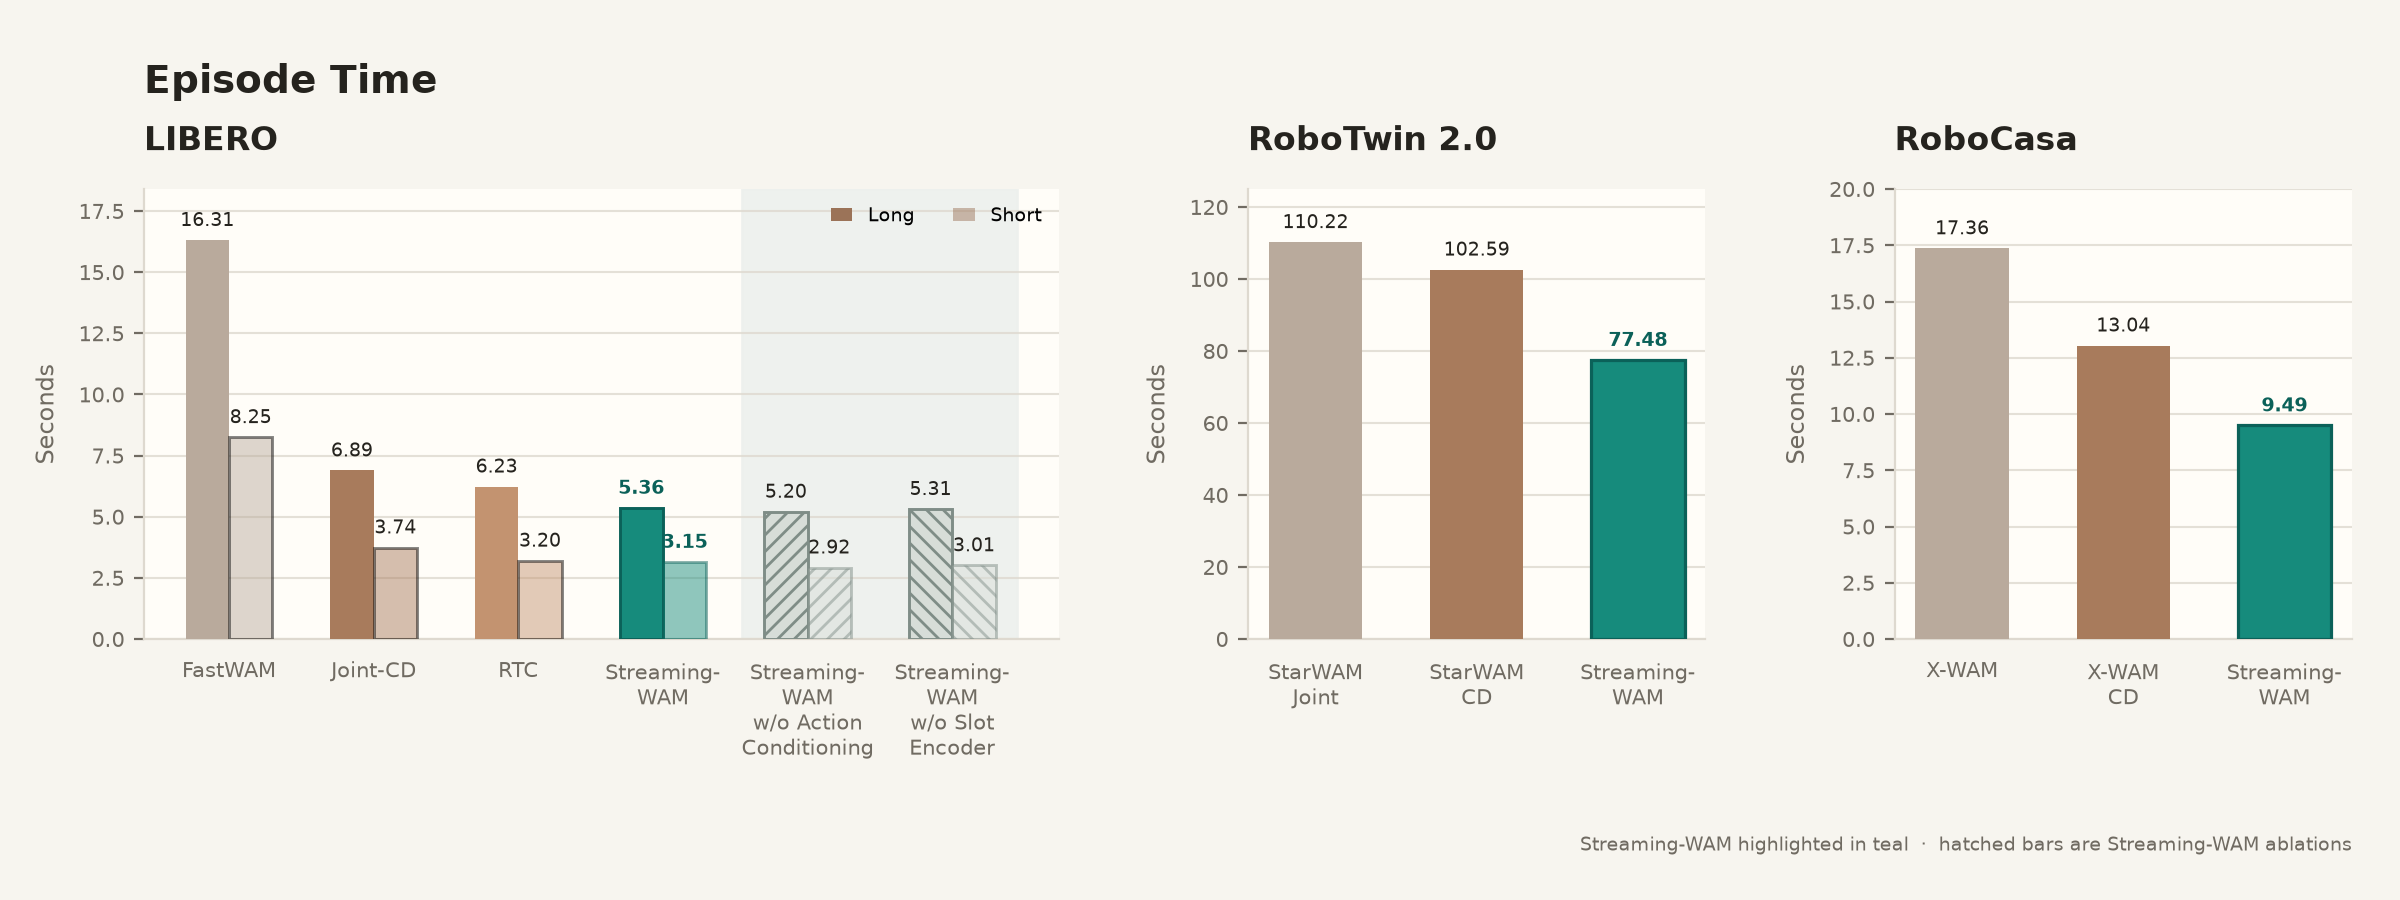
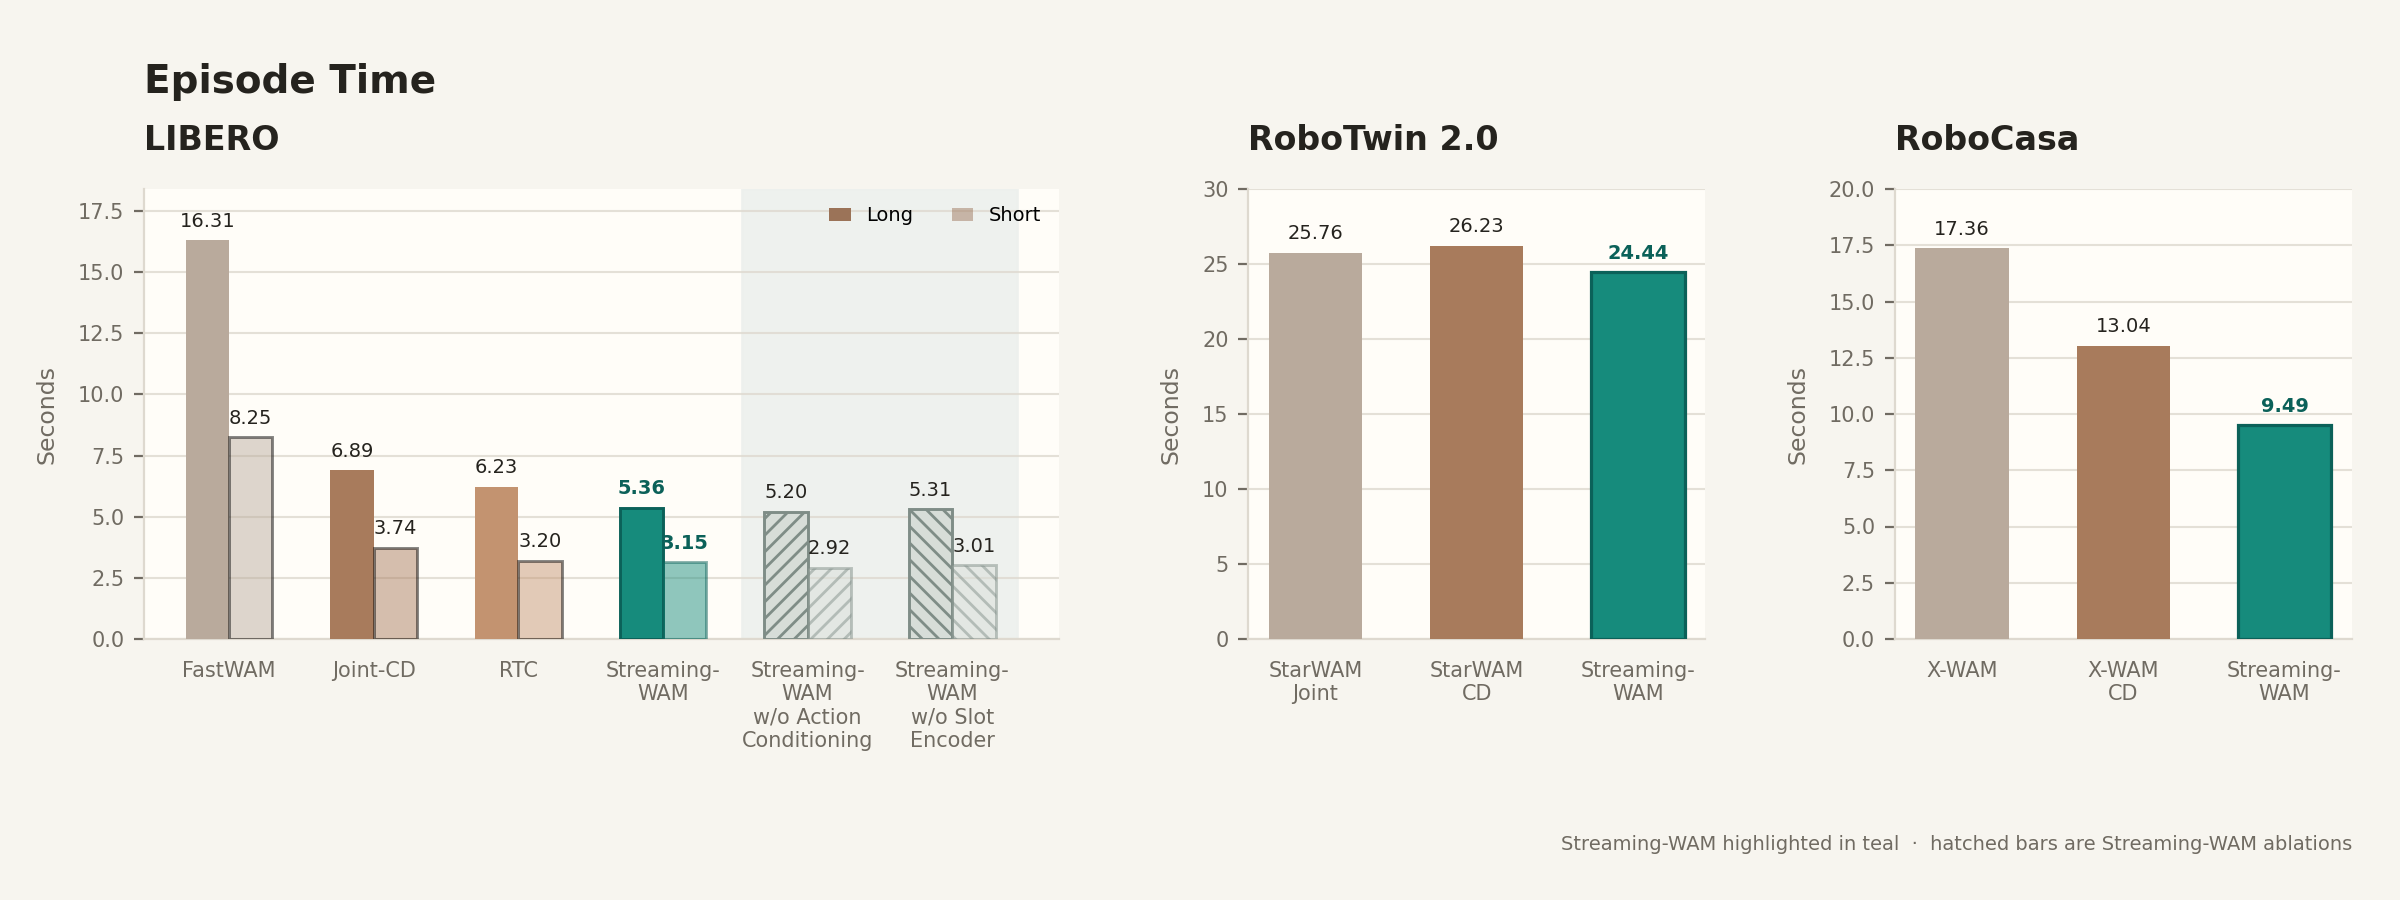
docs: publish RoboTwin benchmark results

diff --git a/docs/index.html b/docs/index.html
@@ -302,14 +302,16 @@
                 <caption>RoboTwin 2.0 clean and randomized results</caption>
                 <thead><tr><th scope="col">Method</th><th scope="col">Clean ↑</th><th scope="col">Random ↑</th><th scope="col">Total ↑</th></tr></thead>
                 <tbody>
-                  <tr><th scope="row">π₀</th><td>65.92</td><td>58.40</td><td>62.2</td></tr>
-                  <tr><th scope="row">π₀.₅</th><td>82.74</td><td>76.76</td><td>79.8</td></tr>
-                  <tr><th scope="row">Motus</th><td><strong>88.66</strong></td><td>87.02</td><td><strong>87.8</strong></td></tr>
-                  <tr><th scope="row">Motus from WAN2.2</th><td>77.56</td><td>77.00</td><td>77.3</td></tr>
-                  <tr><th scope="row">FastWAM-Joint</th><td><u>87.8</u></td><td><u>87.32</u></td><td>87.56</td></tr>
-                  <tr><th scope="row">StarWAM-Joint</th><td>84.8</td><td>86.0</td><td>85.4</td></tr>
-                  <tr><th scope="row">StarWAM-CD</th><td>79.0</td><td>79.2</td><td>79.1</td></tr>
-                  <tr><th scope="row">Streaming-WAM (Ours)</th><td>87.2</td><td><strong>88.8</strong></td><td><u>87.6</u></td></tr>
+                  <tr><th scope="row">π₀</th><td>65.92</td><td>58.40</td><td>62.20</td></tr>
+                  <tr><th scope="row">π₀.₅</th><td>82.74</td><td>76.76</td><td>79.80</td></tr>
+                  <tr><th scope="row">Motus</th><td><u>88.66</u></td><td>87.02</td><td><u>87.80</u></td></tr>
+                  <tr><th scope="row">Motus from WAN2.2</th><td>77.56</td><td>77.00</td><td>77.30</td></tr>
+                  <tr><th scope="row">FastWAM-Joint</th><td>86.40</td><td><u>87.60</u></td><td>87.00</td></tr>
+                  <tr><th scope="row">FastWAM-Joint-CD</th><td>86.20</td><td>85.80</td><td>86.00</td></tr>
+                  <tr><th scope="row">Streaming-WAM (FastWAM, Ours)</th><td><strong>90.40</strong></td><td><strong>90.80</strong></td><td><strong>90.60</strong></td></tr>
+                  <tr><th scope="row">StarWAM-Joint</th><td>87.80</td><td>84.60</td><td>86.20</td></tr>
+                  <tr><th scope="row">StarWAM-CD</th><td>85.40</td><td>86.20</td><td>85.80</td></tr>
+                  <tr><th scope="row">Streaming-WAM (StarWAM, Ours)</th><td>86.60</td><td>85.80</td><td>86.20</td></tr>
                 </tbody>
               </table>
             </div>
@@ -357,7 +359,7 @@
 
           <div class="efficiency-intro reading-column">
             <p><strong>Inference efficiency.</strong> Task success alone does not characterize runtime efficiency. We therefore report Chunk Time, the latency required to prepare the next action chunk, and Episode Time, the duration of a complete rollout, including inference, execution, and replanning.</p>
-            <p>Across all three benchmarks, Streaming-WAM reduces both runtime measures while maintaining comparable task success. On LIBERO, it achieves a 12.0× Chunk Time speedup over FastWAM and Episode Time speedups of 3.0× and 2.6× on Long and Short tasks, respectively, with 98.20% average success. On RoboTwin 2.0, relative to StarWAM-Joint, Chunk Time falls from 190.17 ms to 47.09 ms and Episode Time from 110.22 s to 77.48 s, while overall success increases from 85.4 to 87.6. On RoboCasa, relative to X-WAM, Streaming-WAM achieves a 3.2× Chunk Time speedup and a 1.8× Episode Time speedup, with comparable average success (75.35% versus 75.42%).</p>
+            <p>Across all three benchmarks, Streaming-WAM reduces Chunk Time while maintaining competitive task success. On LIBERO, it achieves a 12.0× Chunk Time speedup over FastWAM and Episode Time speedups of 3.0× and 2.6× on Long and Short tasks, respectively, with 98.20% average success. On RoboTwin 2.0, the FastWAM version reduces Chunk Time from 652.1 ms to 54.4 ms and Episode Time from 24.26 s to 20.14 s, while success rises from 87.00 to 90.60. The StarWAM version reduces Chunk Time from 196.5 ms to 36.6 ms and Episode Time from 25.76 s to 24.44 s, with the same 86.20 overall success. On RoboCasa, relative to X-WAM, Streaming-WAM achieves a 3.2× Chunk Time speedup and a 1.8× Episode Time speedup, with comparable average success (75.35% versus 75.42%).</p>
           </div>
           <figure class="latency-figure breakout" aria-labelledby="chunk-time-caption">
             <div class="latency-viewport">
@@ -385,9 +387,12 @@
                 <tr><th scope="row">LIBERO</th><td>Streaming-WAM</td><td>41.0 ms</td><td>5.36 s Long / 3.15 s Short</td></tr>
                 <tr><th scope="row">LIBERO</th><td>Streaming-WAM w/o Action Conditioning</td><td>35.1 ms</td><td>5.20 s Long / 2.92 s Short</td></tr>
                 <tr><th scope="row">LIBERO</th><td>Streaming-WAM w/o Slot Encoder</td><td>36.3 ms</td><td>5.31 s Long / 3.01 s Short</td></tr>
-                <tr><th scope="row">RoboTwin 2.0</th><td>StarWAM-Joint</td><td>190.17 ms</td><td>110.22 s</td></tr>
-                <tr><th scope="row">RoboTwin 2.0</th><td>StarWAM-CD</td><td>81.21 ms</td><td>102.59 s</td></tr>
-                <tr><th scope="row">RoboTwin 2.0</th><td>Streaming-WAM</td><td>47.09 ms</td><td>77.48 s</td></tr>
+                <tr><th scope="row">RoboTwin 2.0</th><td>FastWAM-Joint</td><td>652.1 ms</td><td>24.26 s</td></tr>
+                <tr><th scope="row">RoboTwin 2.0</th><td>FastWAM-Joint-CD</td><td>165.2 ms</td><td>18.63 s</td></tr>
+                <tr><th scope="row">RoboTwin 2.0</th><td>Streaming-WAM (FastWAM)</td><td>54.4 ms</td><td>20.14 s</td></tr>
+                <tr><th scope="row">RoboTwin 2.0</th><td>StarWAM-Joint</td><td>196.5 ms</td><td>25.76 s</td></tr>
+                <tr><th scope="row">RoboTwin 2.0</th><td>StarWAM-CD</td><td>83.1 ms</td><td>26.23 s</td></tr>
+                <tr><th scope="row">RoboTwin 2.0</th><td>Streaming-WAM (StarWAM)</td><td>36.6 ms</td><td>24.44 s</td></tr>
                 <tr><th scope="row">RoboCasa</th><td>X-WAM</td><td>374.07 ms</td><td>17.36 s</td></tr>
                 <tr><th scope="row">RoboCasa</th><td>X-WAM-CD</td><td>134.37 ms</td><td>13.04 s</td></tr>
                 <tr><th scope="row">RoboCasa</th><td>Streaming-WAM</td><td>115.98 ms</td><td>9.49 s</td></tr>

diff --git a/docs/generate_latency_figure.py b/docs/generate_latency_figure.py
@@ -41,8 +41,8 @@ LIBERO_LONG = (16.31, 6.89, 6.23, 5.36, 5.20, 5.31)
 LIBERO_SHORT = (8.25, 3.74, 3.20, 3.15, 2.92, 3.01)
 
 ROBOTWIN_METHODS = ("StarWAM\nJoint", "StarWAM\nCD", "Streaming-\nWAM")
-ROBOTWIN_CHUNK = (190.17, 81.21, 47.09)
-ROBOTWIN_EPISODE = (110.22, 102.59, 77.48)
+ROBOTWIN_CHUNK = (196.5, 83.1, 36.6)
+ROBOTWIN_EPISODE = (25.76, 26.23, 24.44)
 ROBOCASA_METHODS = ("X-WAM", "X-WAM\nCD", "Streaming-\nWAM")
 ROBOCASA_CHUNK = (374.07, 134.37, 115.98)
 ROBOCASA_EPISODE = (17.36, 13.04, 9.49)
@@ -240,7 +240,7 @@ def render_episode_time(output_path: Path) -> None:
     _draw_libero_episode(axes[0])
     _draw_three_method_panel(
         axes[1], title="RoboTwin 2.0", ylabel="Seconds", methods=ROBOTWIN_METHODS,
-        values=ROBOTWIN_EPISODE, ceiling=125,
+        values=ROBOTWIN_EPISODE, ceiling=30,
     )
     _draw_three_method_panel(
         axes[2], title="RoboCasa", ylabel="Seconds", methods=ROBOCASA_METHODS,

diff --git a/README.md b/README.md
@@ -119,14 +119,16 @@ setting.
 
 | Method | Clean ↑ | Random ↑ | Total ↑ |
 |---|---:|---:|---:|
-| π₀ | 65.92 | 58.40 | 62.2 |
-| π₀.₅ | 82.74 | 76.76 | 79.8 |
-| Motus | **88.66** | 87.02 | **87.8** |
-| Motus from WAN2.2 | 77.56 | 77.00 | 77.3 |
-| FastWAM-Joint | <u>87.8</u> | <u>87.32</u> | 87.56 |
-| StarWAM-Joint | 84.8 | 86.0 | 85.4 |
-| StarWAM-CD | 79.0 | 79.2 | 79.1 |
-| Streaming-WAM (Ours) | 87.2 | **88.8** | <u>87.6</u> |
+| π₀ | 65.92 | 58.40 | 62.20 |
+| π₀.₅ | 82.74 | 76.76 | 79.80 |
+| Motus | <u>88.66</u> | 87.02 | <u>87.80</u> |
+| Motus from WAN2.2 | 77.56 | 77.00 | 77.30 |
+| FastWAM-Joint | 86.40 | <u>87.60</u> | 87.00 |
+| FastWAM-Joint-CD | 86.20 | 85.80 | 86.00 |
+| Streaming-WAM (FastWAM, Ours) | **90.40** | **90.80** | **90.60** |
+| StarWAM-Joint | 87.80 | 84.60 | 86.20 |
+| StarWAM-CD | 85.40 | 86.20 | 85.80 |
+| Streaming-WAM (StarWAM, Ours) | 86.60 | 85.80 | 86.20 |
 
 #### RoboCasa
 
@@ -164,14 +166,17 @@ Task success alone does not characterize runtime efficiency. We therefore report
 | LIBERO | Streaming-WAM | 41.0 ms | 5.36 s Long / 3.15 s Short |
 | LIBERO | Streaming-WAM w/o Action Conditioning | 35.1 ms | 5.20 s Long / 2.92 s Short |
 | LIBERO | Streaming-WAM w/o Slot Encoder | 36.3 ms | 5.31 s Long / 3.01 s Short |
-| RoboTwin 2.0 | StarWAM-Joint | 190.17 ms | 110.22 s |
-| RoboTwin 2.0 | StarWAM-CD | 81.21 ms | 102.59 s |
-| RoboTwin 2.0 | Streaming-WAM | 47.09 ms | 77.48 s |
+| RoboTwin 2.0 | FastWAM-Joint | 652.1 ms | 24.26 s |
+| RoboTwin 2.0 | FastWAM-Joint-CD | 165.2 ms | 18.63 s |
+| RoboTwin 2.0 | Streaming-WAM (FastWAM) | 54.4 ms | 20.14 s |
+| RoboTwin 2.0 | StarWAM-Joint | 196.5 ms | 25.76 s |
+| RoboTwin 2.0 | StarWAM-CD | 83.1 ms | 26.23 s |
+| RoboTwin 2.0 | Streaming-WAM (StarWAM) | 36.6 ms | 24.44 s |
 | RoboCasa | X-WAM | 374.07 ms | 17.36 s |
 | RoboCasa | X-WAM-CD | 134.37 ms | 13.04 s |
 | RoboCasa | Streaming-WAM | 115.98 ms | 9.49 s |
 
-Across all three benchmarks, Streaming-WAM reduces both runtime measures while maintaining comparable task success. On LIBERO, it achieves a 12.0× Chunk Time speedup over FastWAM and Episode Time speedups of 3.0× and 2.6× on Long and Short tasks, respectively, with 98.20% average success. On RoboTwin 2.0, relative to StarWAM-Joint, Chunk Time falls from 190.17 ms to 47.09 ms and Episode Time from 110.22 s to 77.48 s, while overall success increases from 85.4 to 87.6. On RoboCasa, relative to X-WAM, Streaming-WAM achieves a 3.2× Chunk Time speedup and a 1.8× Episode Time speedup, with comparable average success (75.35% versus 75.42%).
+Across all three benchmarks, Streaming-WAM reduces Chunk Time while maintaining competitive task success. On LIBERO, it achieves a 12.0× Chunk Time speedup over FastWAM and Episode Time speedups of 3.0× and 2.6× on Long and Short tasks, respectively, with 98.20% average success. On RoboTwin 2.0, the FastWAM version reduces Chunk Time from 652.1 ms to 54.4 ms and Episode Time from 24.26 s to 20.14 s, while success rises from 87.00 to 90.60. The StarWAM version reduces Chunk Time from 196.5 ms to 36.6 ms and Episode Time from 25.76 s to 24.44 s, with the same 86.20 overall success. On RoboCasa, relative to X-WAM, Streaming-WAM achieves a 3.2× Chunk Time speedup and a 1.8× Episode Time speedup, with comparable average success (75.35% versus 75.42%).
 
 ## Runtime layout
 

diff --git a/examples/robotwin/RoboTwin.md b/examples/robotwin/RoboTwin.md
@@ -261,7 +261,42 @@ python script/eval_policy.py \
 For Shared-DiT, also override `config_path` to the Shared-DiT recipe, use
 checkpoint-45000, and set both inference-step values to 16.
 
-### 8.3 Results
+### 8.3 Canonical cross-family benchmark
+
+Use the same public harness for StarWAM, FastWAM, and Streaming-WAM checkpoints.
+The wrapper defaults to 100 trials per task-setting and `replan_steps=16`; every
+path and runtime remains overridable through environment variables.
+
+```bash
+MODE=baseline \
+CHECKPOINT_FORMAT=fastwam \
+CKPT=/path/to/fastwam_joint.pt \
+CONFIG=examples/robotwin/configs/recipes/streamingwam_robotwin_mot_wan22_5b.yaml \
+STATS_PATH=/path/to/action_stats.json \
+BACKBONE_PATH=/path/to/Wan2.2-TI2V-5B \
+ROBOTWIN_HOME=/path/to/RoboTwin \
+INFERENCE_PYTHON=/path/to/streamingwam-env/bin/python \
+SIMULATOR_PYTHON=/path/to/robotwin-env/bin/python \
+bash examples/robotwin/scripts/run_streamingwam_robotwin_benchmark.sh
+```
+
+The released defaults are selected from `CHECKPOINT_FORMAT` and `MODE`:
+
+| Checkpoint family | Mode | Video steps | Action steps |
+|---|---|---:|---:|
+| StarWAM | baseline | 4 | 4 |
+| StarWAM | cd | 1 | 1 |
+| StarWAM | ac-stream | 1 | 1 |
+| FastWAM | baseline | 10 | 10 |
+| FastWAM | cd | 1 | 2 |
+| Streaming-WAM/FastWAM Stage2 | ac-stream | 1 | 2 |
+
+Set `NUM_INFERENCE_STEPS` and `ACTION_NUM_INFERENCE_STEPS` to override these
+defaults for another checkpoint. Use `AC_STREAM_BACKEND=eager` for the eager
+ablation; accelerated AC-Stream is the default. `MODEL_SEED` controls model
+noise and `EPISODE_SEED` independently controls the RoboTwin scene chain.
+
+### 8.4 Results
 
 RoboTwin writes one result per (task, config) under
 `RoboTwin/eval_result/<task>/<policy>/<config>/<ckpt_setting>/<time>/_result.txt`,
